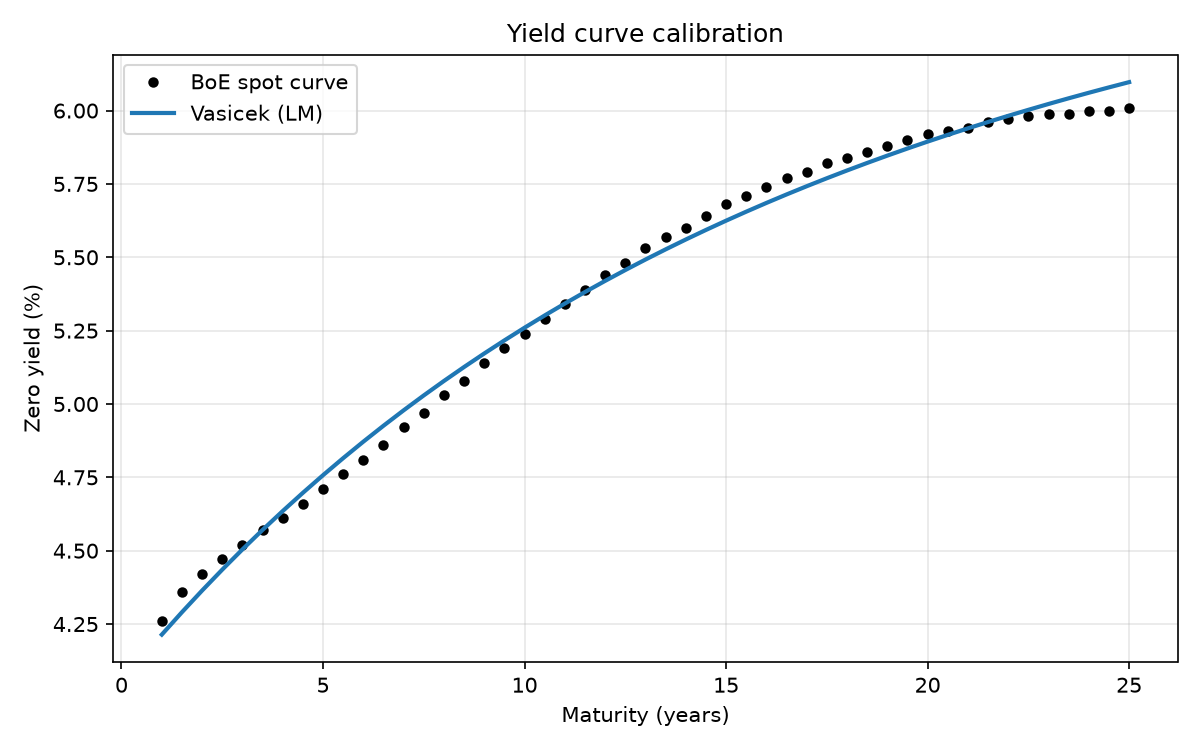
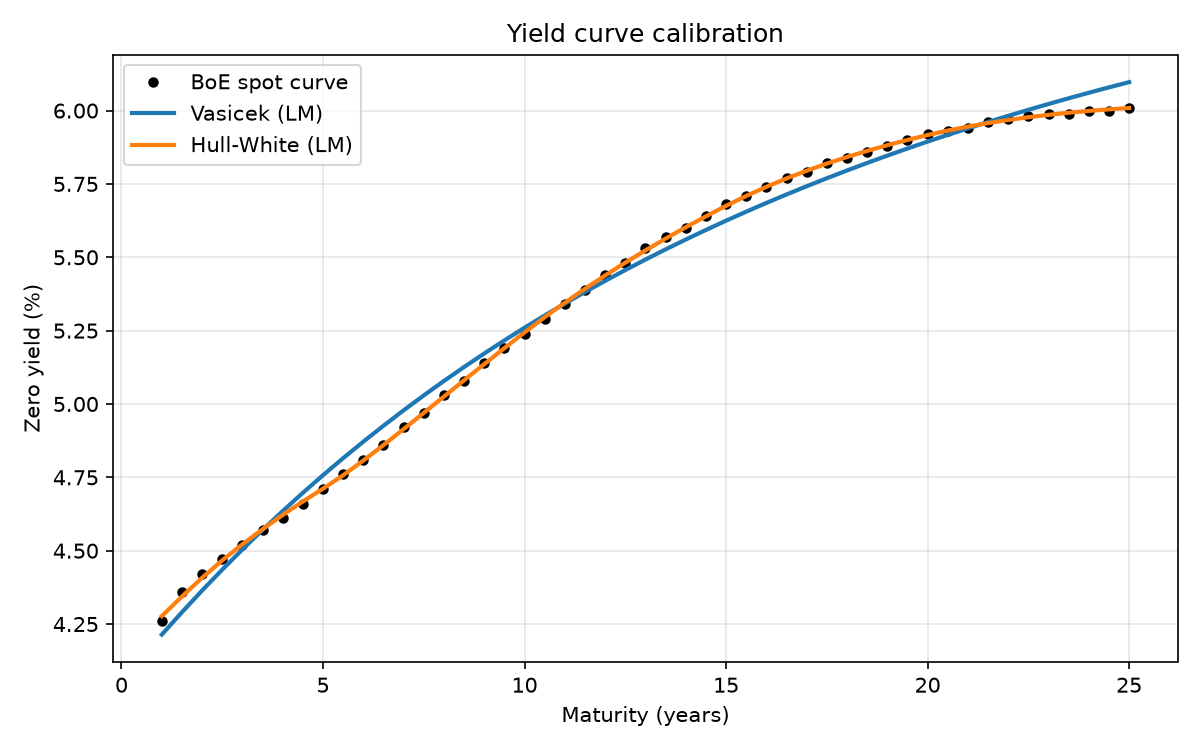
Hull-White calibration with piecewise-constant theta

diff --git a/src/calibrate.py b/src/calibrate.py
@@ -35,3 +35,36 @@ def calibrate_vasicek(taus, market_yields, x0=(0.1, 0.06, 0.01, 0.04)):
         "time_s": elapsed,
         "success": result.success,
     }
+
+from src.models import hull_white_yield
+
+
+def hull_white_residuals(params, theta_knots, a, sigma, taus, market_yields):
+    """Residuals with theta values and r0 as the free parameters."""
+    theta_values, r0 = params[:-1], params[-1]
+    return hull_white_yield(theta_values, theta_knots, a, sigma, r0, taus) - market_yields
+
+
+def calibrate_hull_white(taus, market_yields, theta_knots, a=0.1, sigma=0.01, theta0=0.007, r0_0=0.04):
+    """
+    Fit piecewise-constant theta(t) and r0 by Levenberg-Marquardt,
+    holding a and sigma fixed.
+    """
+    n = len(theta_knots)
+    x0 = np.concatenate([np.full(n, theta0), [r0_0]])
+
+    t0 = time.perf_counter()
+    result = least_squares(
+        hull_white_residuals, x0,
+        args=(theta_knots, a, sigma, taus, market_yields), method="lm",
+    )
+    elapsed = time.perf_counter() - t0
+
+    return {
+        "theta_values": result.x[:-1],
+        "theta_knots": np.asarray(theta_knots, dtype=float),
+        "a": a, "sigma": sigma, "r0": result.x[-1],
+        "rmse_bps": np.sqrt(np.mean(result.fun**2)) * 1e4,
+        "time_s": elapsed,
+        "success": result.success,
+    }
